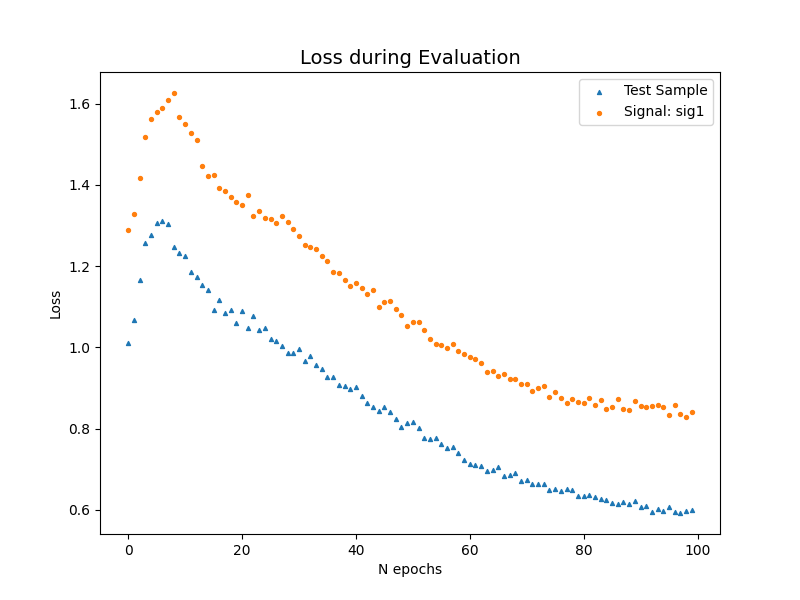
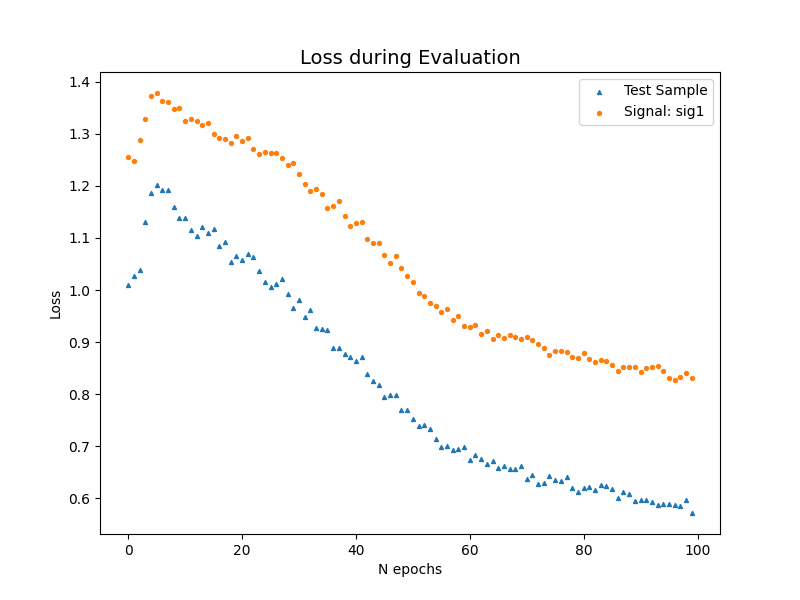
Training with sig1 insertion and percentage 0.005

diff --git a/autoencoder.py b/autoencoder.py
@@ -30,7 +30,7 @@ class AutoEncoder(nn.Module):
             nn.Linear(input_dim, mid_dim),
             nn.ReLU(),
             nn.Linear(mid_dim, latent_dim),
-            # nn.ReLU()
+            nn.ReLU()
         )
         
         # Building an linear decoder with Linear
